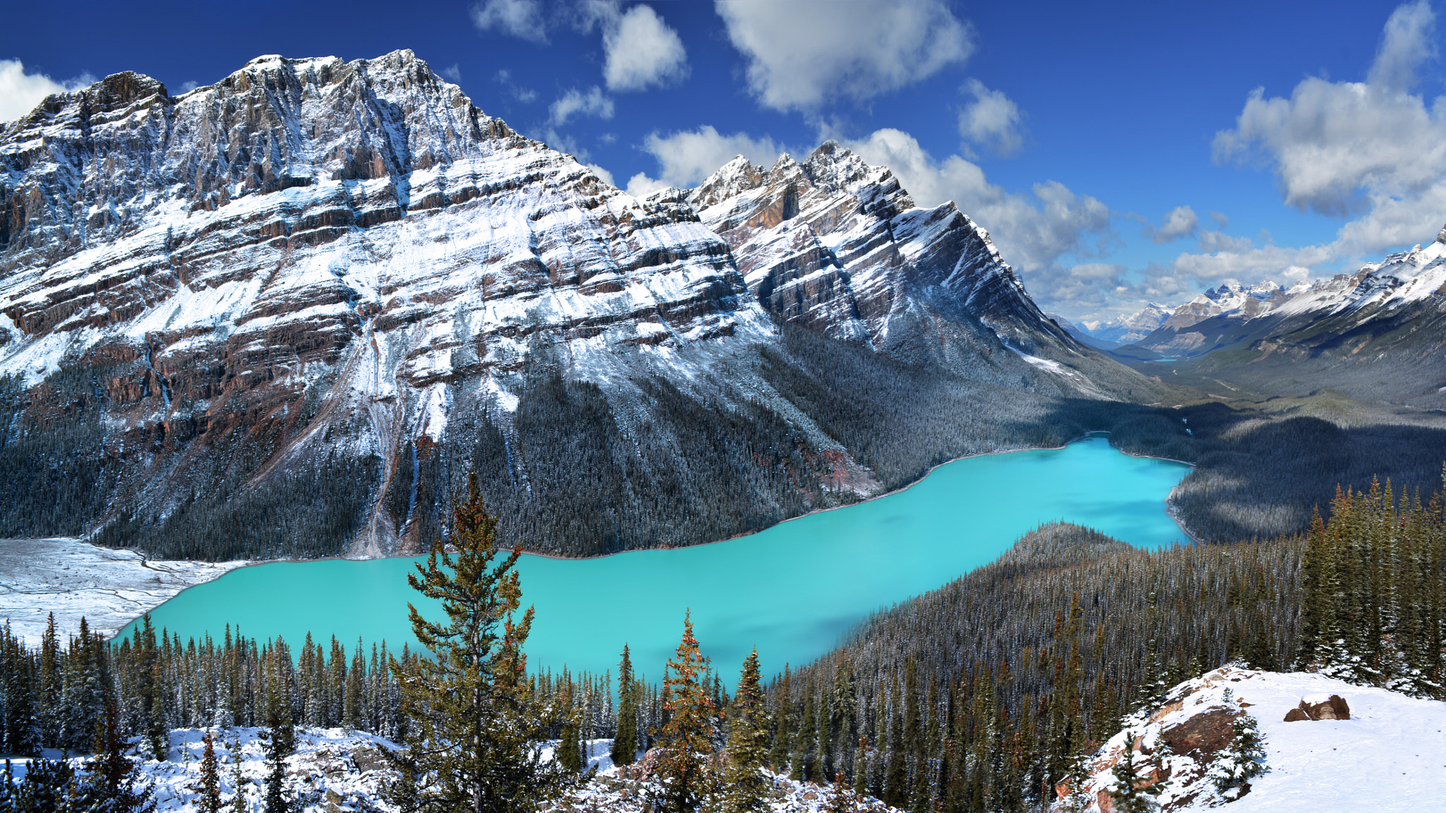
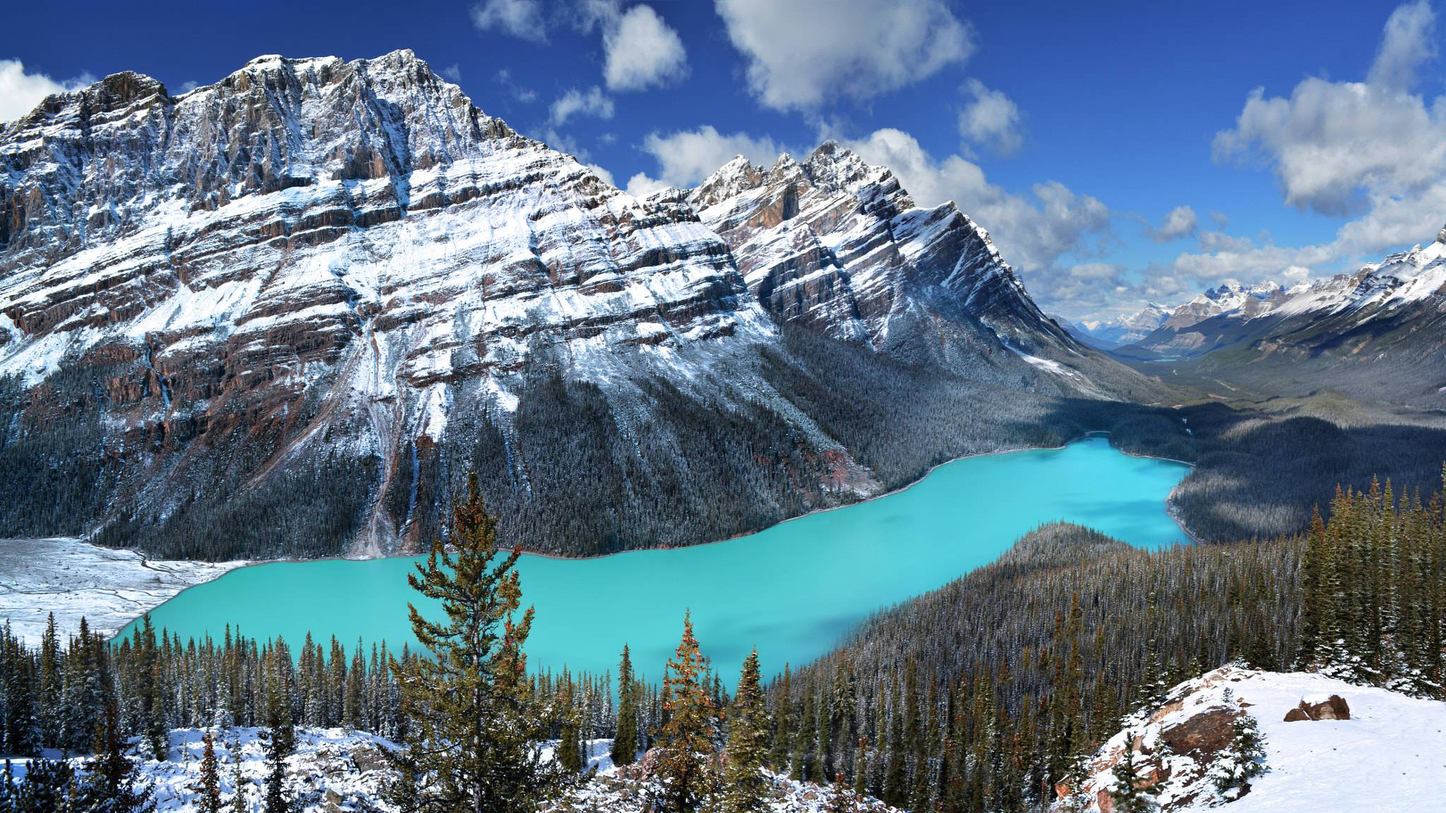
Site updated: 2018-10-15 22:50:39

diff --git a/index.html b/index.html
@@ -235,7 +235,7 @@ height:50vh;
     <!-- 文章页  -->
             
     <div class="site-intro-placeholder"></div>
-    <div class="site-intro-img" style="background-image: url(/intro/index-bg.webp)"></div>
+    <div class="site-intro-img" style="background-image: url(/intro/index-bg.jpeg)"></div>
     <div class="site-intro-meta">
         <!-- 标题  -->
         <h1 class="intro-title">
